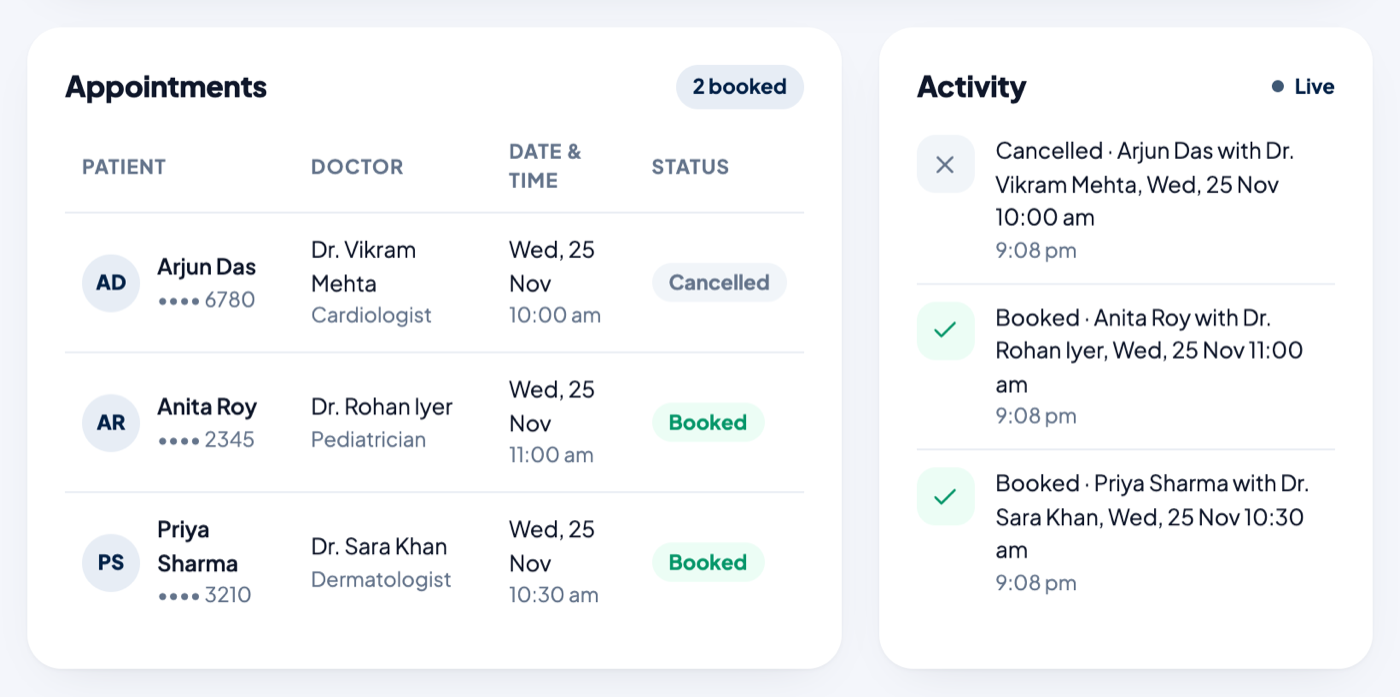
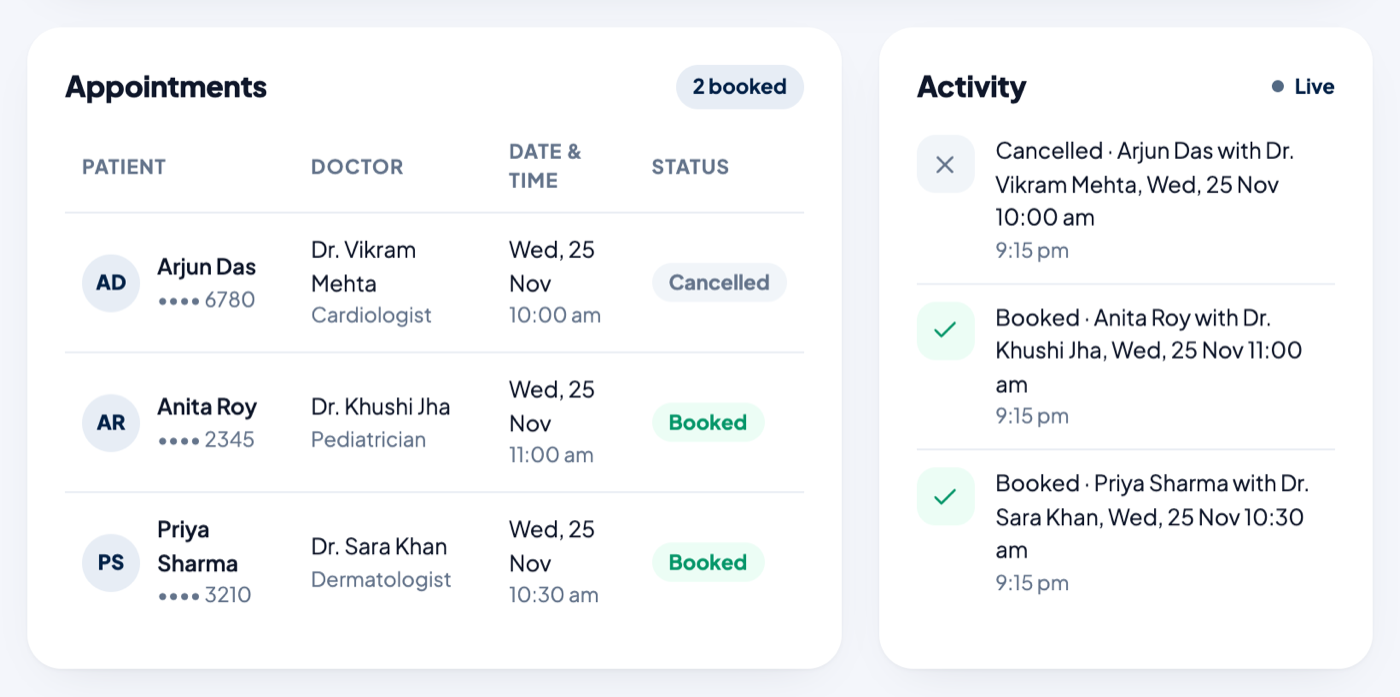
Rename pediatrician to Dr. Khushi Jha and list her first
Also recognise more Hinglish spellings for a child's doctor
(bachche, bachon, bacchon) and refresh the README screenshots.

diff --git a/clinic.py b/clinic.py
@@ -14,10 +14,10 @@ from pathlib import Path
 DB_PATH = Path(__file__).parent / "clinic.db"
 
 DOCTORS = [
+    ("Dr. Khushi Jha", "Pediatrician"),
     ("Dr. Ananya Rao", "General Physician"),
     ("Dr. Vikram Mehta", "Cardiologist"),
     ("Dr. Sara Khan", "Dermatologist"),
-    ("Dr. Rohan Iyer", "Pediatrician"),
 ]
 
 # Each doctor works the same simple schedule on weekdays.
@@ -102,7 +102,7 @@ SPECIALTY_SYNONYMS = {
                      "হৃদয়", "হৃদরোগ", "হার্ট", "বুক"],
     "dermatologist": ["skin", "derma", "hair", "acne", "twacha", "त्वचा", "चमड़ी", "स्किन",
                       "চামড়া", "চর্ম", "ত্বক", "স্কিন"],
-    "pediatrician": ["child", "children", "kid", "baby", "paediatric", "bachcha", "bacche", "बच्चा", "बच्चे", "बच्चों", "शिशु",
+    "pediatrician": ["child", "children", "kid", "baby", "paediatric", "bachcha", "bacche", "bachche", "bachcho", "bachon", "bacchon","बच्चा", "बच्चे", "बच्चों", "शिशु",
                      "শিশু", "বাচ্চা", "বাচ্চার"],
     "general physician": ["general", "fever", "cold", "physician", "gp", "family", "bukhar", "बुखार", "सामान्य",
                           "জ্বর", "সাধারণ"],
